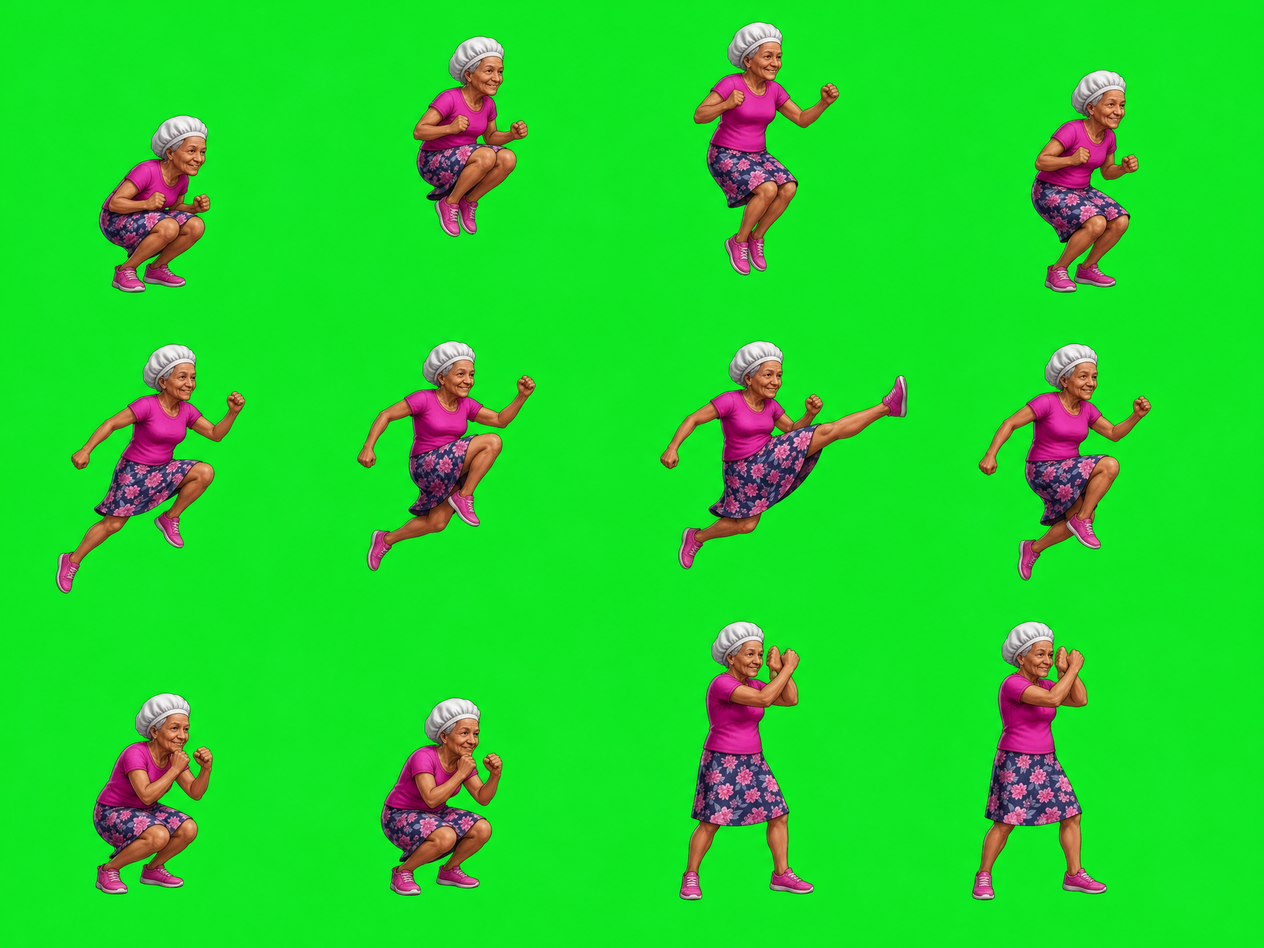
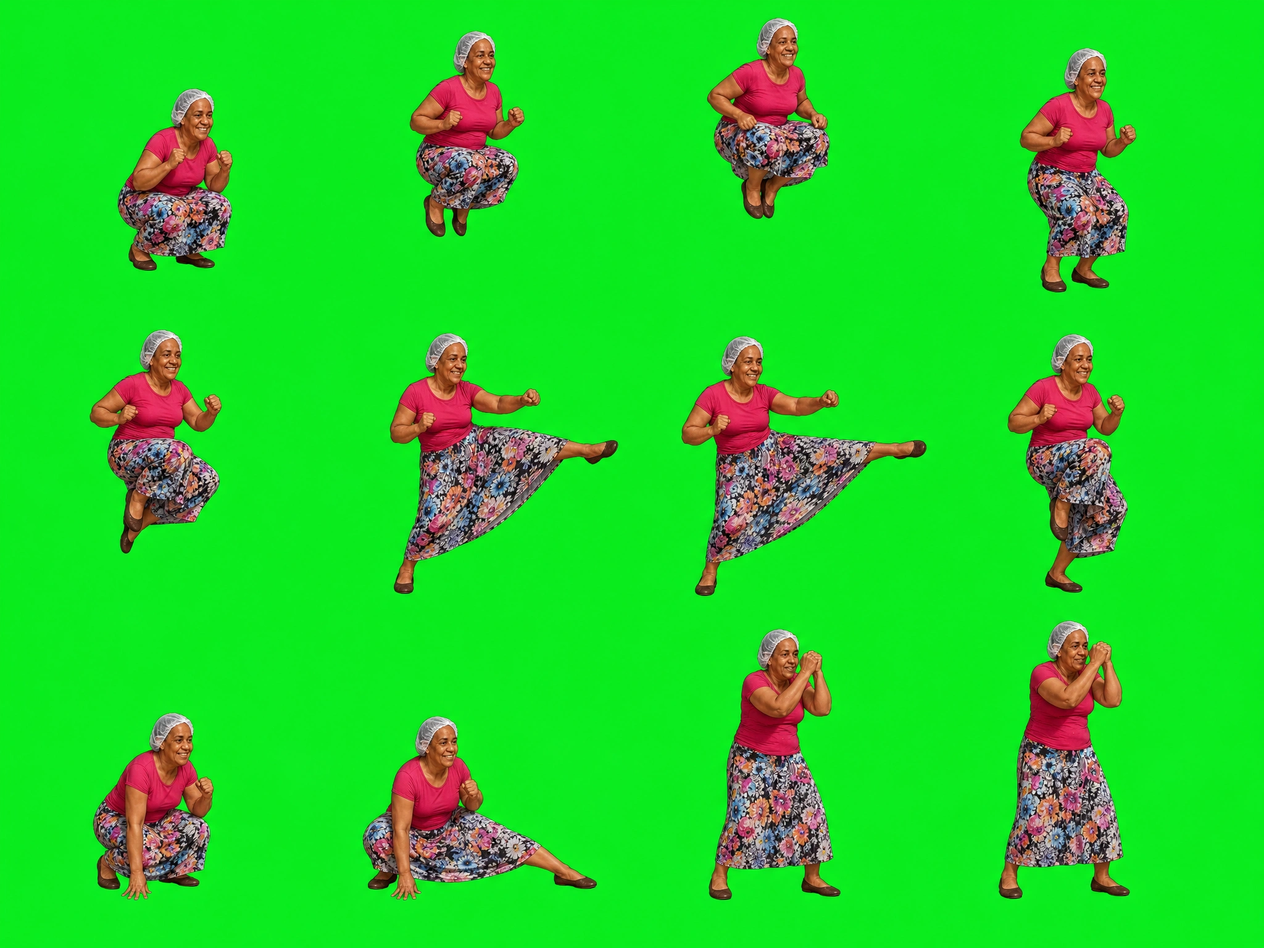
feat(sprites): Davi, Juraci e Modo Fé do Carlos refeitos a partir das fotos reais
- Davi sai dos sprites antigos: 48 quadros novos (camisa verde sem marcas), tamanho de criança
- Juraci com touca, blusa magenta e saia florida, 48 quadros novos
- Modo Fé do Carlos de terno cinza e gravata listrada (parado, andar, correr e golpes)
- formas com roupa própria usam brilho leve para não lavar as cores

Claude-Session: https://claude.ai/code/session_01UTc14efmj54mdCZFWMKwpW

diff --git a/prototype-2.5d/src/data/hdAnimAtlas.ts b/prototype-2.5d/src/data/hdAnimAtlas.ts
@@ -3,9 +3,9 @@
 import type { FighterId } from './fighters';
 import type { SpriteAnimMap } from './spriteAtlas';
 
-export const HD_ANIM_VERSION: Partial<Record<FighterId, string>> = {"carlos": "31359f49", "daniel": "554f053f", "franciely": "1c5306a7", "gabi": "765ac2d2", "juraci": "2db6b14a", "paula": "a626b8f3", "tainara": "665e32f9"};
+export const HD_ANIM_VERSION: Partial<Record<FighterId, string>> = {"carlos": "1e47ce06", "daniel": "554f053f", "davi": "c2399680", "franciely": "1c5306a7", "gabi": "765ac2d2", "juraci": "fb348692", "paula": "a626b8f3", "tainara": "665e32f9"};
 
-export const HD_ANIMS: Partial<Record<FighterId, SpriteAnimMap>> = {"carlos":{"idle":[[0,566,274,543,128.4,543,6],[573,0,274,548,128.0,548,6],[1468,0,276,546,129.1,546,6],[1979,0,273,544,128.1,544,6]],"walk":[[1169,1113,290,500,135.3,500,6],[908,1113,257,502,134.8,502,6],[364,1113,269,505,133.2,505,6],[637,1113,267,505,129.3,505,6]],"run":[[0,2124,341,482,159.0,482,6],[1633,1632,391,483,204.4,483,6],[1227,1632,402,485,207.9,485,6],[1761,1113,368,488,179.6,488,6]],"light":[[851,0,304,547,143.9,547,6],[278,566,335,543,164.5,543,6],[617,566,440,530,179.6,530,6],[1159,0,305,547,146.0,547,6]],"medium":[[1347,566,290,519,130.1,519,6],[0,1632,479,488,151.9,488,6],[1641,566,469,517,132.6,517,6],[2114,566,258,517,122.6,517,6]],"heavy":[[1814,2610,300,342,139.3,342,6],[1300,2124,310,431,159.6,431,6],[260,0,309,553,152.7,553,6],[1463,1113,294,490,145.5,490,6]],"jump":[[291,2610,260,377,116.1,377,6],[1614,2124,242,402,97.1,402,6],[1860,2124,233,402,97.3,402,6],[345,2124,250,479,107.0,479,6]],"flykick":[[483,1632,409,487,186.7,487,6],[0,1113,360,515,137.2,515,6],[555,2610,541,373,220.7,373,6],[923,2124,373,474,150.0,474,6]],"crouch":[[2118,2610,248,342,105.0,342,6],[1561,2610,249,346,104.9,346,6]],"guard":[[2256,0,226,544,103.2,544,6],[1748,0,227,546,106.1,546,6]],"hurt":[[896,1632,327,486,198.6,486,6],[2028,1632,286,483,171.1,483,6],[0,2610,287,384,118.1,384,6],[599,2124,320,479,154.2,479,6]],"knockdown":[[1100,2610,457,358,258.1,358,6],[290,2998,463,296,232.9,296,6],[757,2998,518,154,276.2,154,6],[1279,2998,531,115,281.1,115,6]],"getup":[[0,2998,286,331,129.2,331,6],[2097,2124,283,391,146.2,391,6]],"win":[[0,0,256,562,119.3,562,6],[1061,566,282,528,148.5,528,6]]},"daniel":{"idle":[[2053,609,334,543,162.6,543,6],[1025,609,334,544,164.0,544,6],[0,609,335,546,164.1,546,6],[339,609,335,546,163.2,546,6]],"walk":[[1512,1159,290,525,149.7,525,6],[0,1705,298,523,143.2,523,6],[1806,1159,300,525,157.2,525,6],[2110,1159,353,524,175.4,524,6]],"run":[[764,2232,402,481,169.8,481,6],[1170,2232,390,478,199.6,478,6],[1564,2232,450,474,233.1,474,6],[326,2232,434,482,225.2,482,6]],"light":[[1363,609,343,544,165.5,544,6],[1710,609,339,544,168.6,544,6],[1121,0,441,551,171.6,551,6],[678,609,343,546,166.7,546,6]],"medium":[[595,0,259,553,88.4,553,6],[1891,0,488,547,143.3,547,6],[1016,1159,492,526,160.1,526,6],[858,0,259,553,88.5,553,6]],"heavy":[[1652,2733,299,400,129.2,400,6],[302,1705,323,519,174.3,519,6],[0,0,316,605,164.1,605,6],[674,1159,338,527,165.8,527,6]],"jump":[[1955,2733,300,391,112.0,391,6],[290,2733,276,422,88.3,422,6],[0,1159,342,542,227.2,542,6],[1402,2733,246,410,127.7,410,6]],"flykick":[[1944,1705,450,498,192.7,498,6],[1589,1705,351,508,127.8,508,6],[570,2733,571,421,178.5,421,6],[0,2733,286,437,106.3,437,6]],"crouch":[[0,3174,264,336,112.7,336,6],[2259,2733,247,365,104.5,365,6]],"guard":[[1566,0,321,548,153.0,548,6],[346,1159,324,542,152.6,542,6]],"hurt":[[629,1705,342,515,182.8,515,6],[975,1705,308,515,150.5,515,6],[2018,2232,273,449,131.8,449,6],[0,2232,322,497,164.6,497,6]],"knockdown":[[1022,3174,460,267,215.2,267,6],[580,3174,438,270,193.3,270,6],[1486,3174,456,206,194.2,206,6],[1946,3174,531,131,268.5,131,6]],"getup":[[268,3174,308,332,143.7,332,6],[1145,2733,253,421,130.3,421,6]],"win":[[320,0,271,575,128.3,575,6],[1287,1705,298,515,151.1,515,6]]},"franciely":{"idle":[[554,0,265,553,126.5,553,6],[574,569,284,546,135.5,546,6],[862,569,287,544,139.2,544,6],[1437,569,389,542,160.4,542,6]],"walk":[[1090,1122,252,491,118.5,491,6],[0,1665,253,483,117.8,483,6],[2287,1122,230,484,119.3,484,6],[2050,1122,233,486,107.2,486,6]],"run":[[1643,1665,320,449,124.1,449,6],[0,2152,360,447,186.1,447,6],[731,2152,296,442,116.7,442,6],[1967,1665,387,449,200.8,449,6]],"light":[[2170,0,272,549,129.8,549,6],[1830,569,363,541,169.3,541,6],[0,1122,420,539,172.8,539,6],[0,569,282,549,135.8,549,6]],"medium":[[823,0,210,550,91.0,550,6],[1037,0,428,550,122.3,550,6],[1469,0,484,550,142.1,550,6],[1957,0,209,550,89.7,550,6]],"heavy":[[218,2603,247,349,123.2,349,6],[257,1665,301,477,163.3,477,6],[0,0,285,565,145.2,565,6],[1346,1122,284,491,135.9,491,6]],"jump":[[0,2603,214,355,108.0,355,6],[1461,2152,181,411,81.5,411,6],[1281,2152,176,412,75.9,412,6],[672,1122,187,503,76.9,503,6]],"flykick":[[562,1665,363,475,166.7,475,6],[1646,2152,211,407,108.4,407,6],[1634,1122,412,488,123.5,488,6],[863,1122,223,499,135.1,499,6]],"crouch":[[702,2603,219,340,102.2,340,6],[469,2603,229,342,109.9,342,6]],"guard":[[286,569,284,547,134.5,547,6],[1153,569,280,543,133.2,543,6]],"hurt":[[1211,1665,428,451,270.2,451,6],[364,2152,363,444,204.8,444,6],[1861,2152,255,375,121.4,375,6],[1031,2152,246,438,125.4,438,6]],"knockdown":[[925,2603,441,278,226.4,278,6],[1370,2603,429,235,215.7,235,6],[1803,2603,440,173,249.7,173,6],[0,2962,515,111,282.1,111,6]],"getup":[[2120,2152,247,370,130.7,370,6],[929,1665,278,475,142.8,475,6]],"win":[[289,0,261,559,142.1,559,6],[424,1122,244,531,115.4,531,6]]},"gabi":{"idle":[[350,1176,296,545,139.8,545,6],[650,1176,298,545,140.7,545,6],[952,1176,299,545,144.4,545,6],[1255,1176,303,545,144.4,545,6]],"walk":[[1226,615,310,548,148.1,548,6],[602,615,347,550,166.0,550,6],[1540,615,321,548,150.6,548,6],[953,615,269,550,150.8,550,6]],"run":[[1751,0,397,557,163.0,557,6],[1339,0,408,561,214.4,561,6],[976,0,359,565,138.2,565,6],[609,0,363,572,159.1,572,6]],"light":[[2174,615,339,546,166.3,546,6],[1562,1176,394,544,204.3,544,6],[1960,1176,459,544,200.7,544,6],[0,1176,346,546,167.8,546,6]],"medium":[[2152,0,315,557,156.0,557,6],[1079,1726,513,529,163.1,529,6],[0,1726,469,543,173.0,543,6],[0,615,316,557,156.9,557,6]],"heavy":[[745,2776,319,426,170.0,426,6],[320,615,278,552,131.5,552,6],[0,0,332,611,162.6,611,6],[1596,1726,342,527,171.5,527,6]],"jump":[[2044,2776,261,338,121.0,338,6],[508,2776,233,427,104.2,427,6],[1068,2776,229,413,107.5,413,6],[1584,2273,256,449,125.6,449,6]],"flykick":[[0,2273,433,499,151.5,499,6],[1942,1726,301,517,109.1,517,6],[0,2776,504,443,122.0,443,6],[1301,2776,233,407,102.4,407,6]],"crouch":[[1538,2776,249,360,118.1,360,6],[1791,2776,249,359,118.6,359,6]],"guard":[[473,1726,303,543,146.2,543,6],[1865,615,305,547,146.9,547,6]],"hurt":[[859,2273,426,491,282.2,491,6],[437,2273,418,492,277.4,492,6],[1844,2273,295,444,137.0,444,6],[780,1726,295,532,138.5,532,6]],"knockdown":[[315,3223,496,312,278.2,312,6],[815,3223,526,239,264.8,239,6],[1345,3223,471,236,252.6,236,6],[1820,3223,582,121,307.4,121,6]],"getup":[[0,3223,311,331,148.1,331,6],[1289,2273,291,462,155.9,462,6]],"win":[[336,0,269,584,126.3,584,6],[2247,1726,280,506,146.6,506,6]]},"juraci":{"idle":[[778,0,262,545,120.7,545,6],[1044,0,256,545,122.3,545,6],[1304,0,265,545,125.1,545,6],[1573,0,262,545,123.7,545,6]],"walk":[[1572,622,290,527,138.3,527,6],[1866,622,284,524,138.1,524,6],[0,1171,287,523,139.2,523,6],[1023,1171,309,517,146.8,517,6]],"run":[[610,1698,336,475,164.4,475,6],[950,1698,352,473,182.8,473,6],[291,1698,315,479,164.8,479,6],[1306,1698,376,472,197.6,472,6]],"light":[[497,0,277,552,125.9,552,6],[760,622,310,535,161.3,535,6],[1839,0,412,545,159.0,545,6],[2255,0,262,545,124.1,545,6]],"medium":[[1074,622,251,531,100.8,531,6],[1336,1171,458,517,137.1,517,6],[550,1171,469,520,162.4,520,6],[1329,622,239,531,96.7,531,6]],"heavy":[[1491,2187,244,442,117.5,442,6],[2154,622,261,524,132.3,524,6],[0,0,237,618,114.1,618,6],[291,1171,255,523,120.2,523,6]],"jump":[[901,2654,216,347,99.4,347,6],[2190,2187,224,392,96.1,392,6],[1798,1171,284,495,116.6,495,6],[1739,2187,209,435,98.0,435,6]],"flykick":[[2086,1171,370,487,147.1,487,6],[651,2187,349,450,146.4,450,6],[1004,2187,483,446,160.8,446,6],[0,2187,337,463,167.3,463,6]],"crouch":[[1952,2187,234,394,94.2,394,6],[0,2654,238,387,103.2,387,6]],"guard":[[0,622,262,545,119.1,545,6],[266,622,262,545,119.0,545,6]],"hurt":[[1686,1698,440,468,258.9,468,6],[2130,1698,397,466,213.0,466,6],[242,2654,297,379,133.4,379,6],[341,2187,306,457,144.4,457,6]],"knockdown":[[1121,2654,432,329,236.7,329,6],[1557,2654,420,301,220.7,301,6],[1981,2654,479,245,232.1,245,6],[0,3045,530,137,271.6,137,6]],"getup":[[543,2654,354,362,173.1,362,6],[0,1698,287,485,127.8,485,6]],"win":[[532,622,224,537,122.1,537,6],[241,0,252,553,125.0,553,6]]},"paula":{"idle":[[1190,565,301,544,121.8,544,6],[596,565,301,545,122.1,545,6],[2190,0,302,546,123.6,546,6],[901,565,285,545,110.1,545,6]],"walk":[[489,1115,302,540,125.2,540,6],[1191,1115,328,539,139.6,539,6],[1523,1115,310,539,128.9,539,6],[1837,1115,336,537,139.2,537,6]],"run":[[1472,1660,359,509,139.7,509,6],[1136,1660,332,513,121.4,513,6],[1835,1660,359,506,144.4,506,6],[0,2196,355,505,139.2,505,6]],"light":[[1556,0,317,549,121.8,549,6],[795,1115,392,540,143.8,540,6],[0,1115,485,541,159.7,541,6],[1243,0,309,550,117.9,550,6]],"medium":[[0,0,243,561,111.9,561,6],[1495,565,451,544,169.6,544,6],[757,0,482,557,158.5,557,6],[247,0,242,560,110.7,560,6]],"heavy":[[0,565,317,546,158.6,546,6],[478,1660,427,530,200.7,530,6],[1062,2705,572,428,244.9,428,6],[1877,0,309,549,118.4,549,6]],"jump":[[1100,3159,275,376,135.3,376,6],[737,2705,321,437,139.8,437,6],[2198,1660,343,506,147.8,506,6],[359,2196,339,504,141.3,504,6]],"flykick":[[0,2705,421,450,178.2,450,6],[1482,2196,327,460,156.6,460,6],[0,3159,528,388,236.2,388,6],[1813,2196,321,458,126.4,458,6]],"crouch":[[2004,2705,322,392,121.1,392,6],[532,3159,308,384,110.0,384,6]],"guard":[[1950,565,267,544,122.8,544,6],[321,565,271,546,122.7,546,6]],"hurt":[[0,1660,474,532,299.7,532,6],[1066,2196,412,467,247.2,467,6],[1638,2705,362,420,137.4,420,6],[702,2196,360,501,146.0,501,6]],"knockdown":[[1379,3159,434,343,237.5,343,6],[1817,3159,514,299,266.0,299,6],[0,3551,520,252,254.1,252,6],[524,3551,538,170,270.1,170,6]],"getup":[[844,3159,252,383,116.0,383,6],[425,2705,308,450,152.5,450,6]],"win":[[493,0,260,560,113.3,560,6],[909,1660,223,530,121.2,530,6]]},"tainara":{"idle":[[1295,0,263,545,118.9,545,6],[1562,0,264,545,118.4,545,6],[1830,0,255,545,117.6,545,6],[2089,0,261,545,122.0,545,6]],"walk":[[1497,579,246,526,120.3,526,6],[2020,579,272,525,129.8,525,6],[1747,579,269,526,142.7,526,6],[1241,579,252,527,131.2,527,6]],"run":[[334,1126,350,502,189.0,502,6],[1216,1126,325,495,160.1,495,6],[975,1636,352,470,199.7,470,6],[0,1126,330,506,156.2,506,6]],"light":[[749,0,269,547,118.3,547,6],[664,579,316,539,161.8,539,6],[0,579,412,543,169.8,543,6],[1022,0,269,547,120.2,547,6]],"medium":[[688,1126,253,502,122.9,502,6],[0,1636,391,488,91.6,488,6],[1545,1126,436,495,179.9,495,6],[945,1126,267,502,131.2,502,6]],"heavy":[[249,2591,299,347,151.7,347,6],[395,1636,274,475,154.6,475,6],[475,0,270,548,137.5,548,6],[1985,1126,252,491,111.2,491,6]],"jump":[[552,2591,237,323,108.6,323,6],[1196,2128,227,410,127.1,410,6],[984,579,253,538,88.7,538,6],[328,2128,246,435,108.8,435,6]],"flykick":[[1427,2128,384,392,187.3,392,6],[896,2128,296,429,158.3,429,6],[1331,1636,519,469,207.2,469,6],[0,2128,324,459,156.9,459,6]],"crouch":[[2099,2128,237,352,109.4,352,6],[0,2591,245,352,110.7,352,6]],"guard":[[416,579,244,541,105.3,541,6],[235,0,236,549,109.7,549,6]],"hurt":[[1854,1636,345,467,207.3,467,6],[2203,1636,313,462,201.3,462,6],[1815,2128,280,374,108.8,374,6],[673,1636,298,472,156.9,472,6]],"knockdown":[[1113,2591,489,279,244.0,279,6],[1606,2591,518,247,304.8,247,6],[0,2947,507,166,251.6,166,6],[511,2947,540,121,266.0,121,6]],"getup":[[793,2591,316,319,172.6,319,6],[578,2128,314,435,169.0,435,6]],"win":[[0,0,231,575,98.8,575,6],[2296,579,210,515,104.5,515,6]]}} as Partial<Record<FighterId, SpriteAnimMap>>;
+export const HD_ANIMS: Partial<Record<FighterId, SpriteAnimMap>> = {"carlos":{"idle":[[1340,566,274,543,128.4,543,6],[988,0,274,548,128.0,548,6],[2688,0,276,546,129.1,546,6],[833,566,273,544,128.1,544,6]],"walk":[[2999,1649,290,500,135.3,500,6],[2738,1649,257,502,134.8,502,6],[2194,1649,269,505,133.2,505,6],[2467,1649,267,505,129.3,505,6]],"run":[[685,2669,341,482,159.0,482,6],[0,2669,391,483,204.4,483,6],[2304,2170,402,485,207.9,485,6],[705,2170,368,488,179.6,488,6]],"light":[[1745,0,304,547,143.9,547,6],[1618,566,335,543,164.5,543,6],[0,1115,440,530,179.6,530,6],[2053,0,305,547,146.0,547,6]],"medium":[[2904,1115,290,519,130.1,519,6],[1077,2170,479,488,151.9,488,6],[0,1649,469,517,132.6,517,6],[473,1649,258,517,122.6,517,6]],"heavy":[[2584,3156,300,342,139.3,342,6],[3183,2669,310,431,159.6,431,6],[675,0,309,553,152.7,553,6],[407,2170,294,490,145.5,490,6]],"jump":[[1061,3156,260,377,116.1,377,6],[0,3156,242,402,97.1,402,6],[246,3156,233,402,97.3,402,6],[1842,2669,250,479,107.0,479,6]],"flykick":[[1560,2170,409,487,186.7,487,6],[735,1649,360,515,137.2,515,6],[1325,3156,541,373,220.7,373,6],[2420,2669,373,474,150.0,474,6]],"crouch":[[2888,3156,248,342,105.0,342,6],[2331,3156,249,346,104.9,346,6]],"guard":[[1110,566,226,544,103.2,544,6],[2968,0,227,546,106.1,546,6]],"hurt":[[1973,2170,327,486,198.6,486,6],[395,2669,286,483,171.1,483,6],[770,3156,287,384,118.1,384,6],[2096,2669,320,479,154.2,479,6]],"knockdown":[[1870,3156,457,358,258.1,358,6],[0,3562,463,296,232.9,296,6],[467,3562,518,154,276.2,154,6],[989,3562,531,115,281.1,115,6]],"getup":[[3140,3156,286,331,129.2,331,6],[483,3156,283,391,146.2,391,6]],"win":[[0,0,256,562,119.3,562,6],[947,1115,282,528,148.5,528,6]]},"daniel":{"idle":[[2053,609,334,543,162.6,543,6],[1025,609,334,544,164.0,544,6],[0,609,335,546,164.1,546,6],[339,609,335,546,163.2,546,6]],"walk":[[1512,1159,290,525,149.7,525,6],[0,1705,298,523,143.2,523,6],[1806,1159,300,525,157.2,525,6],[2110,1159,353,524,175.4,524,6]],"run":[[764,2232,402,481,169.8,481,6],[1170,2232,390,478,199.6,478,6],[1564,2232,450,474,233.1,474,6],[326,2232,434,482,225.2,482,6]],"light":[[1363,609,343,544,165.5,544,6],[1710,609,339,544,168.6,544,6],[1121,0,441,551,171.6,551,6],[678,609,343,546,166.7,546,6]],"medium":[[595,0,259,553,88.4,553,6],[1891,0,488,547,143.3,547,6],[1016,1159,492,526,160.1,526,6],[858,0,259,553,88.5,553,6]],"heavy":[[1652,2733,299,400,129.2,400,6],[302,1705,323,519,174.3,519,6],[0,0,316,605,164.1,605,6],[674,1159,338,527,165.8,527,6]],"jump":[[1955,2733,300,391,112.0,391,6],[290,2733,276,422,88.3,422,6],[0,1159,342,542,227.2,542,6],[1402,2733,246,410,127.7,410,6]],"flykick":[[1944,1705,450,498,192.7,498,6],[1589,1705,351,508,127.8,508,6],[570,2733,571,421,178.5,421,6],[0,2733,286,437,106.3,437,6]],"crouch":[[0,3174,264,336,112.7,336,6],[2259,2733,247,365,104.5,365,6]],"guard":[[1566,0,321,548,153.0,548,6],[346,1159,324,542,152.6,542,6]],"hurt":[[629,1705,342,515,182.8,515,6],[975,1705,308,515,150.5,515,6],[2018,2232,273,449,131.8,449,6],[0,2232,322,497,164.6,497,6]],"knockdown":[[1022,3174,460,267,215.2,267,6],[580,3174,438,270,193.3,270,6],[1486,3174,456,206,194.2,206,6],[1946,3174,531,131,268.5,131,6]],"getup":[[268,3174,308,332,143.7,332,6],[1145,2733,253,421,130.3,421,6]],"win":[[320,0,271,575,128.3,575,6],[1287,1705,298,515,151.1,515,6]]},"davi":{"idle":[[806,1207,335,545,162.0,545,6],[1835,653,337,546,164.1,546,6],[1145,1207,338,545,163.4,545,6],[1487,1207,338,545,164.7,545,6]],"walk":[[1874,0,302,558,137.8,558,6],[2180,0,311,557,147.4,557,6],[1547,0,323,560,150.2,560,6],[848,0,319,561,146.2,561,6]],"run":[[784,653,401,549,170.7,549,6],[0,653,356,550,163.2,550,6],[1171,0,372,561,182.7,561,6],[360,653,420,550,168.4,550,6]],"light":[[1829,1207,328,545,158.6,545,6],[2161,1207,335,545,157.0,545,6],[333,1757,420,544,159.7,544,6],[0,1757,329,545,159.1,545,6]],"medium":[[236,0,269,567,121.8,567,6],[0,1207,493,546,105.1,546,6],[1067,1757,351,533,166.3,533,6],[1189,653,328,548,157.9,548,6]],"heavy":[[0,3198,308,356,143.5,356,6],[497,1207,305,546,75.8,546,6],[0,0,232,649,92.4,649,6],[312,3198,309,356,143.3,356,6]],"jump":[[625,3198,234,352,114.4,352,6],[0,2792,288,402,154.7,402,6],[292,2792,327,401,205.0,401,6],[1579,2306,302,430,192.0,430,6]],"flykick":[[623,2792,300,400,163.6,400,6],[1417,2792,480,387,180.0,387,6],[927,2792,486,388,167.2,388,6],[2151,1757,267,506,183.1,506,6]],"crouch":[[1901,2792,265,362,123.6,362,6],[2170,2792,248,361,113.2,361,6]],"guard":[[757,1757,306,542,144.3,542,6],[1521,653,310,548,147.2,548,6]],"hurt":[[0,2306,353,482,192.9,482,6],[357,2306,461,466,304.2,466,6],[1708,1757,439,513,248.1,513,6],[1147,2306,428,445,259.0,445,6]],"knockdown":[[1885,2306,509,424,304.4,424,6],[1234,3198,382,328,202.0,328,6],[1620,3198,402,300,207.5,300,6],[0,3558,544,250,322.9,250,6]],"getup":[[863,3198,367,345,163.7,345,6],[822,2306,321,459,168.5,459,6]],"win":[[1422,1757,282,523,135.4,523,6],[509,0,335,567,165.8,567,6]]},"franciely":{"idle":[[554,0,265,553,126.5,553,6],[574,569,284,546,135.5,546,6],[862,569,287,544,139.2,544,6],[1437,569,389,542,160.4,542,6]],"walk":[[1090,1122,252,491,118.5,491,6],[0,1665,253,483,117.8,483,6],[2287,1122,230,484,119.3,484,6],[2050,1122,233,486,107.2,486,6]],"run":[[1643,1665,320,449,124.1,449,6],[0,2152,360,447,186.1,447,6],[731,2152,296,442,116.7,442,6],[1967,1665,387,449,200.8,449,6]],"light":[[2170,0,272,549,129.8,549,6],[1830,569,363,541,169.3,541,6],[0,1122,420,539,172.8,539,6],[0,569,282,549,135.8,549,6]],"medium":[[823,0,210,550,91.0,550,6],[1037,0,428,550,122.3,550,6],[1469,0,484,550,142.1,550,6],[1957,0,209,550,89.7,550,6]],"heavy":[[218,2603,247,349,123.2,349,6],[257,1665,301,477,163.3,477,6],[0,0,285,565,145.2,565,6],[1346,1122,284,491,135.9,491,6]],"jump":[[0,2603,214,355,108.0,355,6],[1461,2152,181,411,81.5,411,6],[1281,2152,176,412,75.9,412,6],[672,1122,187,503,76.9,503,6]],"flykick":[[562,1665,363,475,166.7,475,6],[1646,2152,211,407,108.4,407,6],[1634,1122,412,488,123.5,488,6],[863,1122,223,499,135.1,499,6]],"crouch":[[702,2603,219,340,102.2,340,6],[469,2603,229,342,109.9,342,6]],"guard":[[286,569,284,547,134.5,547,6],[1153,569,280,543,133.2,543,6]],"hurt":[[1211,1665,428,451,270.2,451,6],[364,2152,363,444,204.8,444,6],[1861,2152,255,375,121.4,375,6],[1031,2152,246,438,125.4,438,6]],"knockdown":[[925,2603,441,278,226.4,278,6],[1370,2603,429,235,215.7,235,6],[1803,2603,440,173,249.7,173,6],[0,2962,515,111,282.1,111,6]],"getup":[[2120,2152,247,370,130.7,370,6],[929,1665,278,475,142.8,475,6]],"win":[[289,0,261,559,142.1,559,6],[424,1122,244,531,115.4,531,6]]},"gabi":{"idle":[[350,1176,296,545,139.8,545,6],[650,1176,298,545,140.7,545,6],[952,1176,299,545,144.4,545,6],[1255,1176,303,545,144.4,545,6]],"walk":[[1226,615,310,548,148.1,548,6],[602,615,347,550,166.0,550,6],[1540,615,321,548,150.6,548,6],[953,615,269,550,150.8,550,6]],"run":[[1751,0,397,557,163.0,557,6],[1339,0,408,561,214.4,561,6],[976,0,359,565,138.2,565,6],[609,0,363,572,159.1,572,6]],"light":[[2174,615,339,546,166.3,546,6],[1562,1176,394,544,204.3,544,6],[1960,1176,459,544,200.7,544,6],[0,1176,346,546,167.8,546,6]],"medium":[[2152,0,315,557,156.0,557,6],[1079,1726,513,529,163.1,529,6],[0,1726,469,543,173.0,543,6],[0,615,316,557,156.9,557,6]],"heavy":[[745,2776,319,426,170.0,426,6],[320,615,278,552,131.5,552,6],[0,0,332,611,162.6,611,6],[1596,1726,342,527,171.5,527,6]],"jump":[[2044,2776,261,338,121.0,338,6],[508,2776,233,427,104.2,427,6],[1068,2776,229,413,107.5,413,6],[1584,2273,256,449,125.6,449,6]],"flykick":[[0,2273,433,499,151.5,499,6],[1942,1726,301,517,109.1,517,6],[0,2776,504,443,122.0,443,6],[1301,2776,233,407,102.4,407,6]],"crouch":[[1538,2776,249,360,118.1,360,6],[1791,2776,249,359,118.6,359,6]],"guard":[[473,1726,303,543,146.2,543,6],[1865,615,305,547,146.9,547,6]],"hurt":[[859,2273,426,491,282.2,491,6],[437,2273,418,492,277.4,492,6],[1844,2273,295,444,137.0,444,6],[780,1726,295,532,138.5,532,6]],"knockdown":[[315,3223,496,312,278.2,312,6],[815,3223,526,239,264.8,239,6],[1345,3223,471,236,252.6,236,6],[1820,3223,582,121,307.4,121,6]],"getup":[[0,3223,311,331,148.1,331,6],[1289,2273,291,462,155.9,462,6]],"win":[[336,0,269,584,126.3,584,6],[2247,1726,280,506,146.6,506,6]]},"juraci":{"idle":[[1883,1116,275,542,126.7,542,6],[464,563,276,548,127.4,548,6],[1477,563,276,546,126.4,546,6],[945,1116,278,544,126.9,544,6]],"walk":[[1300,0,300,555,127.4,555,6],[325,0,314,556,140.5,556,6],[643,0,326,556,151.0,556,6],[0,0,321,559,153.3,559,6]],"run":[[1677,1665,366,535,173.3,535,6],[1227,1116,388,544,187.1,544,6],[2162,1116,372,542,179.5,542,6],[1020,1665,389,538,192.0,538,6]],"light":[[1757,563,317,545,151.4,545,6],[2078,563,338,545,168.0,545,6],[0,563,460,549,165.7,549,6],[0,1116,315,545,151.6,545,6]],"medium":[[1867,0,355,551,182.0,551,6],[2047,1665,422,533,234.1,533,6],[0,1665,627,541,181.6,541,6],[744,563,346,547,176.7,547,6]],"heavy":[[631,1665,385,540,208.2,540,6],[0,2210,608,531,247.0,531,6],[319,1116,622,545,241.7,545,6],[973,0,323,556,155.6,556,6]],"jump":[[1050,3246,227,361,113.3,361,6],[1518,2745,228,408,106.5,408,6],[2263,2745,243,398,127.0,398,6],[383,2745,230,485,119.4,485,6]],"flykick":[[1253,2745,261,443,142.1,443,6],[612,2210,453,518,138.6,518,6],[1069,2210,485,514,155.2,514,6],[1558,2210,238,513,147.3,513,6]],"crouch":[[341,3246,238,371,112.6,371,6],[583,3246,463,365,179.5,365,6]],"guard":[[1413,1665,260,538,127.5,538,6],[1604,0,259,552,127.4,552,6]],"hurt":[[2256,2210,271,505,169.3,505,6],[0,2745,379,497,207.4,497,6],[1800,2210,452,507,272.8,507,6],[617,2745,351,479,109.2,479,6]],"knockdown":[[1750,2745,509,399,322.4,399,6],[1760,3246,428,350,216.0,350,6],[1281,3246,475,357,245.4,357,6],[0,3623,504,258,252.9,258,6]],"getup":[[0,3246,337,373,169.6,373,6],[972,2745,277,470,138.3,470,6]],"win":[[1619,1116,260,543,145.4,543,6],[1094,563,379,547,144.3,547,6]]},"paula":{"idle":[[1190,565,301,544,121.8,544,6],[596,565,301,545,122.1,545,6],[2190,0,302,546,123.6,546,6],[901,565,285,545,110.1,545,6]],"walk":[[489,1115,302,540,125.2,540,6],[1191,1115,328,539,139.6,539,6],[1523,1115,310,539,128.9,539,6],[1837,1115,336,537,139.2,537,6]],"run":[[1472,1660,359,509,139.7,509,6],[1136,1660,332,513,121.4,513,6],[1835,1660,359,506,144.4,506,6],[0,2196,355,505,139.2,505,6]],"light":[[1556,0,317,549,121.8,549,6],[795,1115,392,540,143.8,540,6],[0,1115,485,541,159.7,541,6],[1243,0,309,550,117.9,550,6]],"medium":[[0,0,243,561,111.9,561,6],[1495,565,451,544,169.6,544,6],[757,0,482,557,158.5,557,6],[247,0,242,560,110.7,560,6]],"heavy":[[0,565,317,546,158.6,546,6],[478,1660,427,530,200.7,530,6],[1062,2705,572,428,244.9,428,6],[1877,0,309,549,118.4,549,6]],"jump":[[1100,3159,275,376,135.3,376,6],[737,2705,321,437,139.8,437,6],[2198,1660,343,506,147.8,506,6],[359,2196,339,504,141.3,504,6]],"flykick":[[0,2705,421,450,178.2,450,6],[1482,2196,327,460,156.6,460,6],[0,3159,528,388,236.2,388,6],[1813,2196,321,458,126.4,458,6]],"crouch":[[2004,2705,322,392,121.1,392,6],[532,3159,308,384,110.0,384,6]],"guard":[[1950,565,267,544,122.8,544,6],[321,565,271,546,122.7,546,6]],"hurt":[[0,1660,474,532,299.7,532,6],[1066,2196,412,467,247.2,467,6],[1638,2705,362,420,137.4,420,6],[702,2196,360,501,146.0,501,6]],"knockdown":[[1379,3159,434,343,237.5,343,6],[1817,3159,514,299,266.0,299,6],[0,3551,520,252,254.1,252,6],[524,3551,538,170,270.1,170,6]],"getup":[[844,3159,252,383,116.0,383,6],[425,2705,308,450,152.5,450,6]],"win":[[493,0,260,560,113.3,560,6],[909,1660,223,530,121.2,530,6]]},"tainara":{"idle":[[1295,0,263,545,118.9,545,6],[1562,0,264,545,118.4,545,6],[1830,0,255,545,117.6,545,6],[2089,0,261,545,122.0,545,6]],"walk":[[1497,579,246,526,120.3,526,6],[2020,579,272,525,129.8,525,6],[1747,579,269,526,142.7,526,6],[1241,579,252,527,131.2,527,6]],"run":[[334,1126,350,502,189.0,502,6],[1216,1126,325,495,160.1,495,6],[975,1636,352,470,199.7,470,6],[0,1126,330,506,156.2,506,6]],"light":[[749,0,269,547,118.3,547,6],[664,579,316,539,161.8,539,6],[0,579,412,543,169.8,543,6],[1022,0,269,547,120.2,547,6]],"medium":[[688,1126,253,502,122.9,502,6],[0,1636,391,488,91.6,488,6],[1545,1126,436,495,179.9,495,6],[945,1126,267,502,131.2,502,6]],"heavy":[[249,2591,299,347,151.7,347,6],[395,1636,274,475,154.6,475,6],[475,0,270,548,137.5,548,6],[1985,1126,252,491,111.2,491,6]],"jump":[[552,2591,237,323,108.6,323,6],[1196,2128,227,410,127.1,410,6],[984,579,253,538,88.7,538,6],[328,2128,246,435,108.8,435,6]],"flykick":[[1427,2128,384,392,187.3,392,6],[896,2128,296,429,158.3,429,6],[1331,1636,519,469,207.2,469,6],[0,2128,324,459,156.9,459,6]],"crouch":[[2099,2128,237,352,109.4,352,6],[0,2591,245,352,110.7,352,6]],"guard":[[416,579,244,541,105.3,541,6],[235,0,236,549,109.7,549,6]],"hurt":[[1854,1636,345,467,207.3,467,6],[2203,1636,313,462,201.3,462,6],[1815,2128,280,374,108.8,374,6],[673,1636,298,472,156.9,472,6]],"knockdown":[[1113,2591,489,279,244.0,279,6],[1606,2591,518,247,304.8,247,6],[0,2947,507,166,251.6,166,6],[511,2947,540,121,266.0,121,6]],"getup":[[793,2591,316,319,172.6,319,6],[578,2128,314,435,169.0,435,6]],"win":[[0,0,231,575,98.8,575,6],[2296,579,210,515,104.5,515,6]]}} as Partial<Record<FighterId, SpriteAnimMap>>;
 
 /** Animações de formas com roupa própria, por "<id>@<forma>" (ex.: carlos@crente = Modo Fé). */
-export const HD_FORM_ANIMS: Record<string, SpriteAnimMap> = {} as Record<string, SpriteAnimMap>;
+export const HD_FORM_ANIMS: Record<string, SpriteAnimMap> = {"carlos@crente":{"idle":[[3199,0,271,545,124.7,545,6],[0,566,278,545,126.4,545,6],[282,566,268,545,124.6,545,6],[554,566,275,545,126.6,545,6]],"walk":[[1233,1115,301,525,132.6,525,6],[1538,1115,317,522,145.2,522,6],[2280,1115,308,521,142.4,521,6],[2592,1115,308,521,138.4,521,6]],"run":[[1030,2669,380,482,158.8,482,6],[0,2170,403,495,204.6,495,6],[2797,2669,382,469,159.1,469,6],[1414,2669,424,482,212.4,482,6]],"light":[[2310,566,347,540,168.5,540,6],[260,0,411,554,192.9,554,6],[1266,0,475,548,186.4,548,6],[1957,566,349,542,170.4,542,6]],"medium":[[2362,0,322,547,144.2,547,6],[444,1115,499,530,135.4,530,6],[3006,566,516,536,136.2,536,6],[2661,566,341,537,167.9,537,6]],"heavy":[[1859,1115,417,522,186.8,522,6],[2710,2170,542,485,252.6,485,6],[1099,1649,693,514,229.8,514,6],[1796,1649,394,513,184.4,513,6]]}} as Record<string, SpriteAnimMap>;

diff --git a/prototype-2.5d/src/engine/characterBuilder.ts b/prototype-2.5d/src/engine/characterBuilder.ts
@@ -760,6 +760,8 @@ export function applyRigFormAndFlash(
 ) {
   const f = FORMS[formId];
   const d = 1 - Math.exp(-10 * dt);
+  // forma com roupa própria desenhada (ex.: Modo Fé de terno): brilho leve para não lavar as cores
+  const ownOutfit = formId !== 'normal' && !!HD_FORM_ANIMS[`${rig.id}@${formId}`];
 
   if (rig.haloMesh) {
     rig.haloMesh.visible = formId === 'crente';
@@ -777,7 +779,7 @@ export function applyRigFormAndFlash(
     const pulse = 1 + Math.sin(time * 7) * 0.1;
     rig.auraRing.scale.set(pulse, pulse, 1);
     rig.auraLight.color.setHex(f.auraHex);
-    rig.auraLight.intensity = 2.0 + Math.sin(time * 10) * 0.55;
+    rig.auraLight.intensity = (ownOutfit ? 0.7 : 2.0) + Math.sin(time * 10) * (ownOutfit ? 0.2 : 0.55);
   } else {
     auraMat.opacity = THREE.MathUtils.lerp(auraMat.opacity, 0, d);
     rig.auraLight.intensity = THREE.MathUtils.lerp(rig.auraLight.intensity, 0, d);
@@ -792,7 +794,7 @@ export function applyRigFormAndFlash(
     rig.spriteMat.emissiveIntensity = 0.85;
   } else if (activeAura) {
     rig.spriteMat.emissive.setHex(f.auraHex);
-    rig.spriteMat.emissiveIntensity = 0.14;
+    rig.spriteMat.emissiveIntensity = ownOutfit ? 0.03 : 0.14;
   } else {
     rig.spriteMat.emissive.setHex(0x000000);
     rig.spriteMat.emissiveIntensity = 0;

diff --git a/prototype-2.5d/src/data/spriteAtlas.ts b/prototype-2.5d/src/data/spriteAtlas.ts
@@ -25,7 +25,7 @@ export const CHAR_SPRITE_SCALE: Record<FighterId, number> = {
   gabi: 1.19,
   paula: 1.20,
   tainara: 1.23,
-  davi: 1.1,
+  davi: 0.96,
 };
 
 export const SELECT_POSES: Record<FighterId, { anim: string; frame: number }> = {
@@ -320,7 +320,10 @@ export const SPRITE_ATLAS: Record<FighterId | 'cao', SpriteAnimMap> = {
     getup: [[1813,1718,211,250,121.7,250,1],[1377,1718,432,340,224.5,340,1]],
     win: [[2281,0,245,564,150.2,564,1],[1284,637,345,541,111,541,1]],
   },
-  davi: DAVI_ATLAS,
+  // Davi: animações base novas (feitas a partir da foto), especiais antigos mantidos
+  davi: HD_ANIMS.davi
+    ? { ...DAVI_ATLAS, ...HD_ANIMS.davi }
+    : DAVI_ATLAS,
   cao: {"idle":[[1130,589,216,182,107.1,179.9]],"special":[[1350,589,251,182,132.1,182]],"win":[[1605,589,216,182,107.1,179.9]],"run":[[0,960,343,180,182.5,177.8]],"walk":[[1158,960,224,179,114.9,176.8]],"jump":[[1386,960,242,179,97.8,176.8]],"heavy":[[995,1326,239,175,117,174.7]],"medium":[[536,1859,239,170,133.6,169.5]],"light":[[370,2033,205,167,108.7,167.4]],"guard":[[0,2536,255,157,111.8,157]],"crouch":[[994,2536,267,156,135.1,156.1]]},
 };
 
